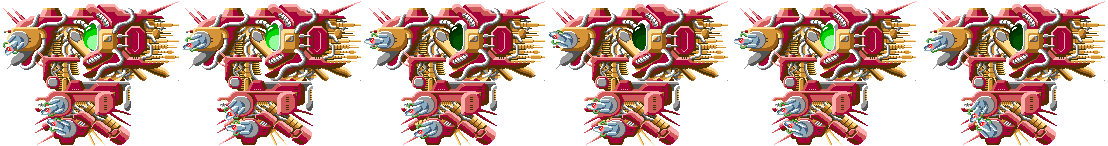
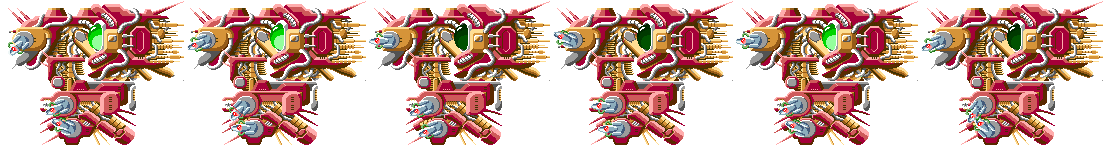
[ADD]: animate first boss in 6 frames and vertical movement & begin of new boss

diff --git a/server/include/systems/EnemyAISystem.hpp b/server/include/systems/EnemyAISystem.hpp
@@ -20,8 +20,10 @@
 #include "../../../engineCore/include/ecs/components/Sprite.hpp"
 #include "../../../engineCore/include/ecs/events/GameEvents.hpp"
 #include "ecs/ComponentSignature.hpp"
+#include <algorithm>
 #include <cmath>
 #include <random>
+#include <unordered_map>
 #include <vector>
 
 namespace server
@@ -376,52 +378,114 @@ public:
           velocity.dy = 0.0F;
         }
       } else if (pattern.patternType == "boss_pattern") {
-        // Bounce pattern: diagonal movement that bounces off screen boundaries
-        // The robot moves diagonally and bounces when hitting top, bottom, or sides
+        // Boss behavior:
+        // 1) Enter from the right with horizontal velocity.
+        // 2) Once fully on-screen -> stop horizontal movement and switch to vertical-only
+        //    allers-retours with variable speed (randomized interval + smooth lerp).
+        // 3) Keep existing shooting behavior intact.
 
         constexpr float SCREEN_TOP_BOUNDARY = 0.0F;
         constexpr float SCREEN_BOTTOM_BOUNDARY = 1080.0F;
         constexpr float SCREEN_LEFT_BOUNDARY = 0.0F;
         constexpr float SCREEN_RIGHT_BOUNDARY = 1920.0F;
+        constexpr float DEFAULT_ENTRY_MARGIN = 400.0F; // fallback if sprite info missing
 
-        // Initialize random direction on first frame (use phase to track if initialized)
+        // per-boss runtime state (created lazily)
+        struct BossState {
+          bool verticalMode = false; // true once boss finished entering
+          float speedChangeTimer = 0.0F; // accumulates time until next speed change
+          float nextChangeInterval = 1.0F; // randomized interval between speed changes
+          float targetSpeed = 150.0F; // current target vertical speed magnitude
+        };
+
+        static std::unordered_map<ecs::Entity, BossState> s_bossStates;
+        auto &state = s_bossStates[entity];
+
+        // Initialization (only used to pick an initial vertical direction if needed)
         if (pattern.phase == 0.0F) {
-          // Mark as initialized by setting phase to 1.0
           pattern.phase = 1.0F;
 
-          // Randomize initial vertical direction (50% up, 50% down)
-          // Use entity ID + position as seed for truly varied behavior per individual
           std::mt19937 rng(static_cast<unsigned int>(entity) + static_cast<unsigned int>(transform.x * 100.0F) +
                            static_cast<unsigned int>(transform.y * 100.0F));
           std::uniform_int_distribution<int> dist(0, 1);
+          velocity.dy = (dist(rng) == 0 ? std::abs(velocity.dy) : -std::abs(velocity.dy));
 
-          if (dist(rng) == 0) {
-            velocity.dy = std::abs(velocity.dy); // Go up
+          // seed initial randomized interval and speed
+          std::uniform_real_distribution<float> ivar(0.8F, 2.0F);
+          std::uniform_real_distribution<float> speedVar(100.0F, 280.0F);
+          state.nextChangeInterval = ivar(rng);
+          state.targetSpeed = speedVar(rng);
+          state.speedChangeTimer = 0.0F;
+        }
+
+        // Determine X position at which the boss is "fully on-screen".
+        float entryX = SCREEN_RIGHT_BOUNDARY - DEFAULT_ENTRY_MARGIN;
+        if (world.hasComponent<ecs::Sprite>(entity)) {
+          auto &sprite = world.getComponent<ecs::Sprite>(entity);
+          float halfWidth = (sprite.width * (world.getComponent<ecs::Transform>(entity).scale));
+          // assume transform.x is centered; subtract halfWidth to ensure fully visible
+          entryX = SCREEN_RIGHT_BOUNDARY - halfWidth;
+        }
+
+        // If not yet in vertical mode, check for transition condition
+        if (!state.verticalMode) {
+          // Still entering: keep horizontal movement
+          // If the boss has reached the entry X, switch to vertical movement
+          if (transform.x <= entryX) {
+            state.verticalMode = true;
+            // lock X so boss doesn't drift
+            transform.x = entryX;
+            velocity.dx = 0.0F;
+
+            // ensure we have a sensible starting vertical speed (preserve sign)
+            float sign = (velocity.dy < 0.0F ? -1.0F : 1.0F);
+            velocity.dy = sign * state.targetSpeed;
+
+            // small safety clamp to keep boss away from exact borders
+            transform.y = std::clamp(transform.y, SCREEN_TOP_BOUNDARY + 20.0F, SCREEN_BOTTOM_BOUNDARY - 20.0F);
           } else {
-            velocity.dy = -std::abs(velocity.dy); // Go down
+            // keep moving left while entering
+            // (leave dx as configured in spawn/velocity)
           }
+        } else {
+          // VERTICAL MODE: boss performs allers-retours (up/down) with variable speed
+
+          // Lock horizontal position
+          transform.x = entryX;
+          velocity.dx = 0.0F;
+
+          // Update speed-change timer and pick a new target speed when interval elapsed
+          state.speedChangeTimer += deltaTime;
+          if (state.speedChangeTimer >= state.nextChangeInterval) {
+            // randomize next interval and target speed
+            std::mt19937 rng(static_cast<unsigned int>(entity) + static_cast<unsigned int>(transform.y * 100.0F) +
+                             static_cast<unsigned int>(state.speedChangeTimer * 1000.0F));
+            std::uniform_real_distribution<float> ivar(0.6F, 2.2F);
+            std::uniform_real_distribution<float> speedVar(90.0F, 340.0F);
+            state.nextChangeInterval = ivar(rng);
+            state.targetSpeed = speedVar(rng);
+            state.speedChangeTimer = 0.0F;
+          }
+
+          // Smoothly approach the target speed (lerp) to avoid instant jumps
+          constexpr float SPEED_LERP = 4.0F; // higher = faster interpolation
+          float curSpeed = std::abs(velocity.dy);
+          float newSpeed = curSpeed + (state.targetSpeed - curSpeed) * std::min(1.0F, SPEED_LERP * deltaTime);
+          velocity.dy = (velocity.dy < 0.0F ? -newSpeed : newSpeed);
+
+          // Reverse direction on top/bottom hit (classic allers-retours)
+          if (transform.y <= SCREEN_TOP_BOUNDARY + 10.0F && velocity.dy < 0.0F) {
+            velocity.dy = -velocity.dy;
+          }
+          if (transform.y >= SCREEN_BOTTOM_BOUNDARY - 10.0F && velocity.dy > 0.0F) {
+            velocity.dy = -velocity.dy;
+          }
+
+          // Optional: small positional clamp to avoid sticking out
+          transform.y = std::clamp(transform.y, SCREEN_TOP_BOUNDARY + 1.0F, SCREEN_BOTTOM_BOUNDARY - 1.0F);
         }
 
-        // Check boundaries and reverse direction if needed
-        // Top boundary
-        if (transform.y <= SCREEN_TOP_BOUNDARY && velocity.dy < 0.0F) {
-          velocity.dy = -velocity.dy; // Bounce down
-        }
-        // Bottom boundary
-        if (transform.y >= SCREEN_BOTTOM_BOUNDARY && velocity.dy > 0.0F) {
-          velocity.dy = -velocity.dy; // Bounce up
-        }
-        // Right boundary (less common but possible)
-        if (transform.x >= SCREEN_RIGHT_BOUNDARY && velocity.dx > 0.0F) {
-          velocity.dx = -velocity.dx; // Bounce left
-        }
-        // Left boundary (will be destroyed before hitting it usually)
-        if (transform.x <= SCREEN_LEFT_BOUNDARY && velocity.dx < 0.0F) {
-          velocity.dx = -velocity.dx; // Bounce right
-        }
-
-        // Shooting behavior: robots shoot periodically toward the player
-        // Use pattern.amplitude to track shooting timer (repurposed since not used for bounce)
+        // --- Keep existing shooting behavior intact (unchanged) ---
         pattern.amplitude += deltaTime;
         constexpr float ROBOT_SHOOT_INTERVAL = 2.5F; // Shoot every 2.5 seconds
 
@@ -492,16 +556,16 @@ public:
               projOwner.ownerId = entity; // The robot is the owner
               world.addComponent(projectile, projOwner);
 
-              // Add networked component
-              ecs::Networked net;
-              net.networkId = projectile;
-              world.addComponent(projectile, net);
-
               // Add attraction component
               ecs::Attraction projAttraction;
               projAttraction.force = 500.0F;
               projAttraction.radius = 300.0F;
               world.addComponent(projectile, projAttraction);
+
+              // Add networked component
+              ecs::Networked net;
+              net.networkId = projectile;
+              world.addComponent(projectile, net);
             }
           }
         }

diff --git a/client/src/PlayingState.cpp b/client/src/PlayingState.cpp
@@ -222,12 +222,12 @@ void PlayingState::render()
           frameWidth = 34;
           frameHeight = 34;
           break;
-        // case ecs::SpriteId::BOSS_DOBKERATOP_LEFT_UP:
-        //   frameWidth = 227 / 2;
-        //   frameHeight = 66;
-        //   break;
+        case ecs::SpriteId::BOSS_BROCOLIS:
+          frameWidth = 33;
+          frameHeight = 34;
+          break;
         case ecs::SpriteId::BOSS_DOBKERATOP:
-          frameWidth = 182; // 155 pixels / 4 frames, arrondi supérieur pour éviter débordement
+          frameWidth = 184; // 155 pixels / 4 frames, arrondi supérieur pour éviter débordement
           frameHeight = 146;
           break;
         // case ecs::SpriteId::BOSS_DOBKERATOP_DOWN:
@@ -355,6 +355,10 @@ void PlayingState::render()
             srcX = sprite.currentFrame * frameWidth;
             srcY = 0;
           } else if (sprite.spriteId >= ecs::SpriteId::BOSS_DOBKERATOP_SHOOT) {
+            // For player ship and other standard sprites: use currentFrame
+            srcX = sprite.currentFrame * frameWidth;
+            srcY = 0;
+          } else if (sprite.spriteId >= ecs::SpriteId::BOSS_BROCOLIS) {
             // For player ship and other standard sprites: use currentFrame
             srcX = sprite.currentFrame * frameWidth;
             srcY = 0;
@@ -498,6 +502,7 @@ void PlayingState::render()
       case ecs::SpriteId::ENEMY_ROBOT:
       case ecs::SpriteId::BOSS_DOBKERATOP:
       case ecs::SpriteId::BOSS_DOBKERATOP_SHOOT:
+      case ecs::SpriteId::BOSS_BROCOLIS:
         // case ecs::SpriteId::BOSS_DOBKERATOP_HEAD:
         // case ecs::SpriteId::BOSS_DOBKERATOP_DOWN:
         color = COLOR_ENEMY_YELLOW;
@@ -1364,18 +1369,18 @@ void PlayingState::loadSpriteTextures()
     std::cerr << "[PlayingState] ✗ Failed to load BOSS_anim.png: " << e.what() << '\n';
   }
 
-  //   // BOSS_ANIM = 65 (spritesheet: 586x94, 6 frames)
-  //   try {
-  //     void *boss_anim_tex = renderer->loadTexture("client/assets/boss/boss_dobkeratops_left_up.png");
-  //     if (boss_anim_tex != nullptr) {
-  //       m_spriteTextures[ecs::SpriteId::BOSS_DOBKERATOP_LEFT_UP] = boss_anim_tex;
-  //       std::cout << "[PlayingState] ✓ Loaded BOSS_anim.png" << '\n';
-  //     } else {
-  //       std::cerr << "[PlayingState] ✗ Failed to load BOSS_anim.png (returned null)" << '\n';
-  //     }
-  //   } catch (const std::exception &e) {
-  //     std::cerr << "[PlayingState] ✗ Failed to load BOSS_anim.png: " << e.what() << '\n';
-  //   }
+  // BOSS_ANIM = 65 (spritesheet: 586x94, 6 frames)
+  try {
+    void *boss_anim_tex = renderer->loadTexture("client/assets/boss/boss_brocolis.png");
+    if (boss_anim_tex != nullptr) {
+      m_spriteTextures[ecs::SpriteId::BOSS_BROCOLIS] = boss_anim_tex;
+      std::cout << "[PlayingState] ✓ Loaded BOSS_anim.png" << '\n';
+    } else {
+      std::cerr << "[PlayingState] ✗ Failed to load BOSS_anim.png (returned null)" << '\n';
+    }
+  } catch (const std::exception &e) {
+    std::cerr << "[PlayingState] ✗ Failed to load BOSS_anim.png: " << e.what() << '\n';
+  }
 
   //   // BOSS_ANIM = 65 (spritesheet: 586x94, 6 frames)
   //   try {

diff --git a/engineCore/include/ecs/components/Sprite.hpp b/engineCore/include/ecs/components/Sprite.hpp
@@ -140,7 +140,7 @@ constexpr std::uint32_t CHARGED_PROJECTILE = 42;
 constexpr std::uint32_t LOADING_SHOT = 43;
 constexpr std::uint32_t BOSS_DOBKERATOP = 44;
 constexpr std::uint32_t BOSS_DOBKERATOP_SHOOT = 45;
-// constexpr std::uint32_t BOSS_DOBKERATOP_LEFT_UP = 45;
+constexpr std::uint32_t BOSS_BROCOLIS = 46;
 // constexpr std::uint32_t BOSS_DOBKERATOP_UP = 46;
 // constexpr std::uint32_t BOSS_DOBKERATOP_DOWN = 47;
 
